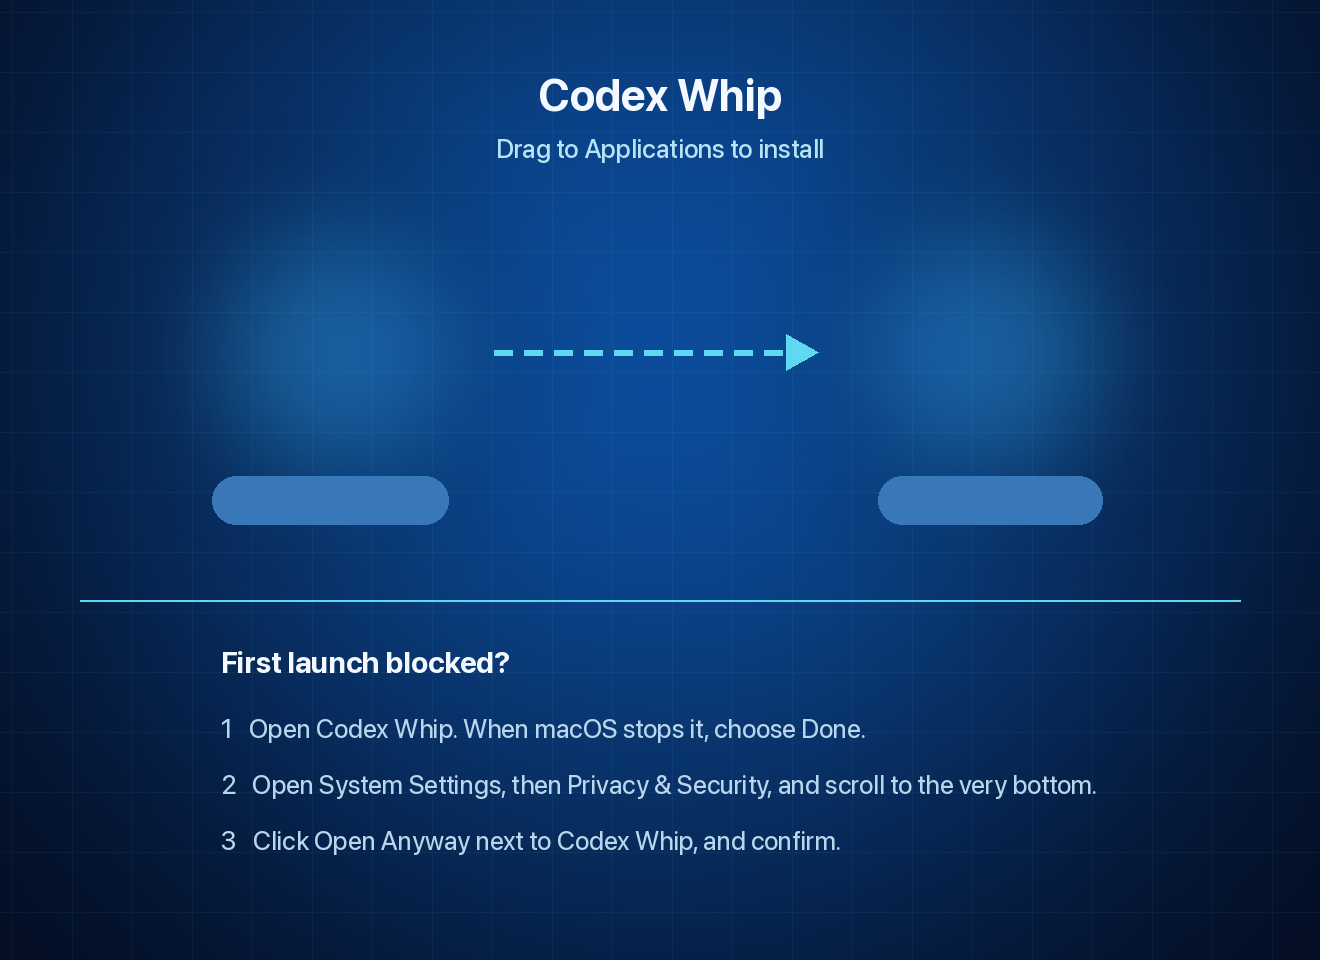
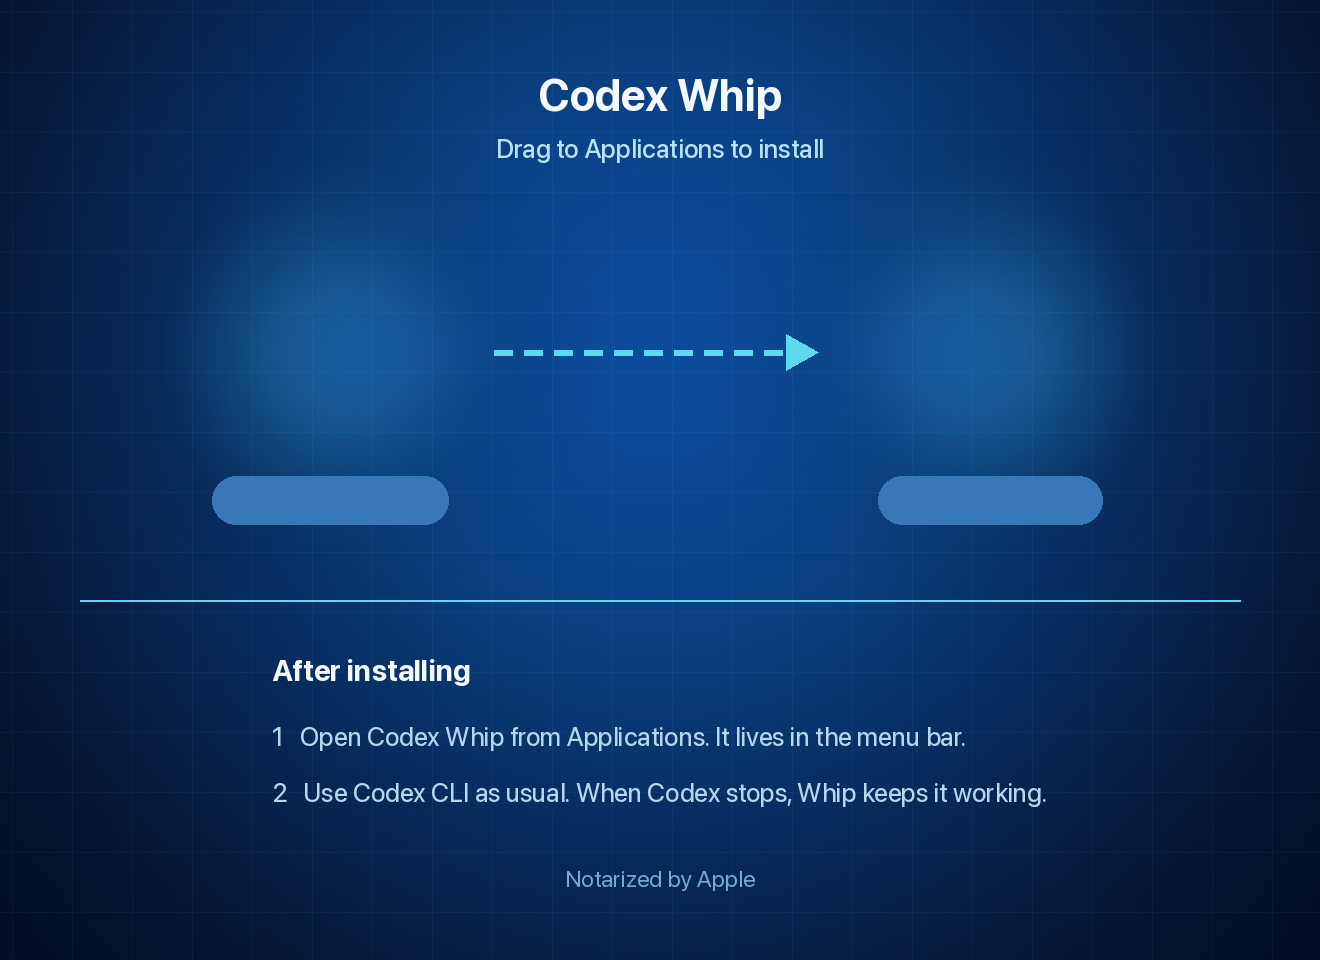
Sign releases with a Developer ID, notarize them with Apple and restore Start at Login after the signature change, as version 1.10.3

Changed region(s): [[0.1864, 0.8125, 0.8386, 0.9375], [0.1864, 0.75, 0.7455, 0.7812], [0.1553, 0.6562, 0.3727, 0.7188]]

diff --git a/native/App.swift b/native/App.swift
@@ -462,6 +462,7 @@ private final class AppDelegate: NSObject, NSApplicationDelegate, NSMenuDelegate
         let timer = Timer(timeInterval: 10, repeats: true) { [weak self] _ in self?.refreshDashboard() }
         RunLoop.main.add(timer, forMode: .common)
         self.timer = timer
+        if !isolated { restoreLogin() }
         let arguments = ProcessInfo.processInfo.arguments
         if arguments.contains("--enable-login") {
             if isolated {
@@ -846,9 +847,26 @@ private final class AppDelegate: NSObject, NSApplicationDelegate, NSMenuDelegate
             // Unregistering here would silently undo the choice instead.
             SMAppService.openSystemSettingsLoginItems()
         case .enabled:
+            UserDefaults.standard.set(false, forKey: loginChoiceKey)
             configureLogin(enabled: false, presentError: true)
         default:
+            UserDefaults.standard.set(true, forKey: loginChoiceKey)
             configureLogin(enabled: true, presentError: true)
+        }
+    }
+
+    private let loginChoiceKey = "StartAtLogin"
+
+    /// macOS ties a login item to the app's code signature, so a new signing identity
+    /// can drop the registration. The saved choice registers the item again once.
+    private func restoreLogin() {
+        switch SMAppService.mainApp.status {
+        case .enabled:
+            UserDefaults.standard.set(true, forKey: loginChoiceKey)
+        case .notRegistered where UserDefaults.standard.bool(forKey: loginChoiceKey):
+            configureLogin(enabled: true, presentError: false)
+        default:
+            break
         }
     }
 

diff --git a/scripts/build_app.py b/scripts/build_app.py
@@ -1,5 +1,9 @@
 #!/usr/bin/env python3
-"""Build the self-contained menu bar app and an ad-hoc signed DMG on macOS."""
+"""Build the self-contained menu bar app and its DMG on macOS.
+
+Builds are ad hoc signed unless --identity names a Developer ID Application
+certificate in the keychain. scripts/notarize.py then notarizes that DMG.
+"""
 
 import argparse
 import hashlib
@@ -21,10 +25,34 @@ import sparkle
 ROOT = Path(__file__).resolve().parents[1]
 NAME = "Codex Whip"
 EXECUTABLE = "CodexWhip"
+BUNDLE_ID = "com.turushan.codex-whip"
 
 
 def run(arguments, **kwargs):
     subprocess.run([str(value) for value in arguments], check=True, cwd=ROOT, **kwargs)
+
+
+def sign(app, identity):
+    """Sign nested code first and the app last, never with --deep.
+
+    A Developer ID signature adds the hardened runtime and a secure timestamp,
+    which notarization requires. PyInstaller already signed the libraries inside
+    the helper with the same identity; only its outer signature is renewed here.
+    """
+    options = ["--force", "--sign", identity]
+    if identity == "-":
+        options += ["--timestamp=none"]
+    else:
+        options += ["--timestamp", "--options", "runtime"]
+    framework = app / "Contents/Frameworks/Sparkle.framework"
+    # The XPC services serve sandboxed apps only; this app is not sandboxed.
+    shutil.rmtree(framework / "Versions/B/XPCServices")
+    (framework / "XPCServices").unlink()
+    for code in (framework / "Versions/B/Autoupdate", framework / "Versions/B/Updater.app", framework):
+        run(["codesign", *options, code])
+    run(["codesign", *options, "--identifier", f"{BUNDLE_ID}.helper", app / "Contents/Helpers/whip-helper"])
+    run(["codesign", *options, app])
+    run(["codesign", "--verify", "--deep", "--strict", app])
 
 
 def main():
@@ -32,6 +60,8 @@ def main():
     parser.add_argument("--skip-install", action="store_true", help="Use existing build dependencies")
     parser.add_argument("--skip-tests", action="store_true", help="Skip tests already run for this source")
     parser.add_argument("--reuse-helper", action="store_true", help="Reuse an unchanged local helper when rebuilding the native menu")
+    parser.add_argument("--identity", default="-",
+                        help='Signing identity, such as "Developer ID Application: Name (TEAMID)"; ad hoc by default')
     args = parser.parse_args()
     if sys.platform != "darwin":
         parser.error("Build this macOS app on a Mac")
@@ -68,7 +98,7 @@ def main():
              "--distpath", build / "helper", "--workpath", build / "pyinstaller",
              "--specpath", build / "spec", "--target-arch", architecture,
              "--add-data", str(ROOT / "assets/sounds/whip.wav") + os.pathsep + "assets/sounds",
-             "--codesign-identity", "-", ROOT / "codex_whip.py"])
+             "--codesign-identity", args.identity, ROOT / "codex_whip.py"])
     app = output / f"{NAME}.app"
     if app.exists():
         shutil.rmtree(app)
@@ -84,7 +114,7 @@ def main():
         "CFBundleDevelopmentRegion": "en",
         "CFBundleDisplayName": NAME,
         "CFBundleExecutable": EXECUTABLE,
-        "CFBundleIdentifier": "com.turushan.codex-whip",
+        "CFBundleIdentifier": BUNDLE_ID,
         "CFBundleInfoDictionaryVersion": "6.0",
         "CFBundleName": NAME,
         "CFBundlePackageType": "APPL",
@@ -133,8 +163,7 @@ def main():
     ], text=True).strip()
     if Path(license_path).is_file():
         shutil.copy2(license_path, contents / "Resources/ThirdPartyLicenses/Python-runtime.txt")
-    run(["codesign", "--force", "--deep", "--sign", "-", "--timestamp=none", app])
-    run(["codesign", "--verify", "--deep", "--strict", app])
+    sign(app, args.identity)
     disk = output / f"Codex-Whip-{architecture}.dmg"
     disk.unlink(missing_ok=True)
     # The installer window: background, icon positions and the volume icon (scripts/dmg_settings.py).
@@ -150,6 +179,9 @@ def main():
             if attempt == 2:
                 raise
             time.sleep(10)
+    if args.identity != "-":
+        run(["codesign", "--force", "--sign", args.identity, "--timestamp",
+             "--identifier", f"{BUNDLE_ID}.dmg", disk])
     digest = hashlib.sha256(disk.read_bytes()).hexdigest()
     (output / "SHA256SUMS.txt").write_text(f"{digest}  {disk.name}\n")
     print(f"\nBuilt {app}\nBuilt {disk}\nSHA256 {digest}")

diff --git a/scripts/notarize.py b/scripts/notarize.py
@@ -1,0 +1,81 @@
+#!/usr/bin/env python3
+"""Notarize a Developer ID signed DMG with Apple, staple the ticket and check Gatekeeper.
+
+Authenticates with an App Store Connect Team API key: either --keychain-profile
+(saved once with `xcrun notarytool store-credentials`) or NOTARY_KEY_PATH,
+NOTARY_KEY_ID and NOTARY_ISSUER in the environment, as on CI.
+"""
+
+import argparse
+import hashlib
+import json
+import os
+from pathlib import Path
+import subprocess
+import sys
+import tempfile
+
+
+def notarytool(arguments, credentials):
+    result = subprocess.run(["xcrun", "notarytool", *arguments, *credentials, "--output-format", "json"],
+                            stdout=subprocess.PIPE, text=True, check=False)
+    try:
+        return result.returncode, json.loads(result.stdout or "{}")
+    except json.JSONDecodeError:
+        return result.returncode, {"message": result.stdout}
+
+
+def main():
+    parser = argparse.ArgumentParser(description=__doc__)
+    parser.add_argument("archive", type=Path, help="Signed DMG from scripts/build_app.py --identity")
+    parser.add_argument("--keychain-profile", help="Saved notarytool credentials for local use")
+    args = parser.parse_args()
+    archive = args.archive.resolve()
+    if args.keychain_profile:
+        credentials = ["--keychain-profile", args.keychain_profile]
+    else:
+        try:
+            credentials = ["--key", os.environ["NOTARY_KEY_PATH"], "--key-id", os.environ["NOTARY_KEY_ID"],
+                           "--issuer", os.environ["NOTARY_ISSUER"]]
+        except KeyError as missing:
+            parser.error(f"Set {missing.args[0]} or pass --keychain-profile")
+    subprocess.run(["codesign", "--verify", "--strict", archive], check=True)
+    code, submission = notarytool(["submit", archive, "--wait", "--timeout", "30m"], credentials)
+    print(json.dumps(submission, indent=2))
+    identifier = submission.get("id")
+    if identifier:
+        # The log lists every issue, including warnings on an accepted submission.
+        log = archive.with_name(archive.stem + "-notary-log.json")
+        subprocess.run(["xcrun", "notarytool", "log", identifier, *credentials, log], check=False)
+        if log.is_file():
+            issues = json.loads(log.read_text()).get("issues") or []
+            for issue in issues:
+                print(f"{issue.get('severity')}: {issue.get('path')}: {issue.get('message')}")
+    if code or submission.get("status") != "Accepted":
+        sys.exit(f"Notarization failed: {submission.get('status') or submission.get('message')}")
+    subprocess.run(["xcrun", "stapler", "staple", archive], check=True)
+    subprocess.run(["xcrun", "stapler", "validate", archive], check=True)
+    subprocess.run(["spctl", "--assess", "--type", "open", "--context", "context:primary-signature",
+                    "--verbose=2", archive], check=True)
+    # Check the app inside the stapled image as a downloaded copy would be checked.
+    with tempfile.TemporaryDirectory() as mount:
+        subprocess.run(["hdiutil", "attach", "-nobrowse", "-readonly", "-mountpoint", mount, archive],
+                       check=True, stdout=subprocess.DEVNULL)
+        try:
+            app = Path(mount) / "Codex Whip.app"
+            # The ticket is stapled to the image, not to the app inside it, so
+            # `syspolicy_check distribution` would report the app's ticket as missing.
+            subprocess.run(["spctl", "--assess", "--type", "execute", "--verbose=2", app], check=True)
+        finally:
+            subprocess.run(["hdiutil", "detach", mount], check=True, stdout=subprocess.DEVNULL)
+    # Stapling changes the image, so the checksum is written again.
+    checksums = archive.parent / "SHA256SUMS.txt"
+    checksums.write_text("".join(
+        f"{hashlib.sha256(item.read_bytes()).hexdigest()}  {item.name}\n"
+        for item in sorted(archive.parent.glob("Codex-Whip-*.dmg"))
+    ))
+    print(f"\nNotarized and stapled {archive}")
+
+
+if __name__ == "__main__":
+    main()

diff --git a/scripts/make_dmg_background.py b/scripts/make_dmg_background.py
@@ -2,7 +2,7 @@
 """Draw the installer window's background in the film's blueprint look, at 1x and 2x.
 
 The disk image opens to a 660 by 480 point window: the app on the left, Applications on the right
-and an arrow between them, then the three first-launch steps people take themselves. Finder draws icon labels white in dark
+and an arrow between them, then what to do after installing. Finder draws icon labels white in dark
 mode and black in light mode, so each label sits on a chip whose luminance gives both at least 4.5:1.
 The positions here must match ICONS in scripts/build_app.py. Needs Pillow and the macOS font SF.
 """
@@ -81,16 +81,16 @@ def draw(scale):
     chip = chip_color()
     for cx, width in ((APP, 118), (APPLICATIONS, 112)):
         d.rounded_rectangle([s(cx - width / 2), s(ICON_Y + LABEL - 12), s(cx + width / 2), s(ICON_Y + LABEL + 12)], s(12), fill=chip)
-    # A hairline between installing and the first launch.
+    # A hairline between installing and what comes next.
     d.line([(s(40), s(300)), (s(WIDTH - 40), s(300))], fill=(*CYAN, 60), width=max(1, s(1)))
     heading, step = font(s(15), 700), font(s(13), 450)
-    lines = ["1   Open Codex Whip. When macOS stops it, choose Done.",
-             "2   Open System Settings, then Privacy & Security, and scroll to the very bottom.",
-             "3   Click Open Anyway next to Codex Whip, and confirm."]
+    lines = ["1   Open Codex Whip from Applications. It lives in the menu bar.",
+             "2   Use Codex CLI as usual. When Codex stops, Whip keeps it working."]
     x = (WIDTH - max(d.textlength(line, font=step) for line in lines) / scale) / 2
-    d.text((s(x), s(322)), "First launch blocked?", font=heading, fill=(244, 249, 255))
+    d.text((s(x), s(326)), "After installing", font=heading, fill=(244, 249, 255))
     for index, line in enumerate(lines):
-        d.text((s(x), s(356 + index * 28)), line, font=step, fill=(184, 214, 236))
+        d.text((s(x), s(360 + index * 28)), line, font=step, fill=(184, 214, 236))
+    centered("Notarized by Apple", 432, small, (120, 170, 205))
     return card.convert("RGB")
 
 

diff --git a/scripts/sparkle.py b/scripts/sparkle.py
@@ -16,6 +16,16 @@ REPOSITORY = "https://github.com/turushan/codex-whip"
 FEED_ROOT = "https://raw.githubusercontent.com/turushan/codex-whip/main/updates"
 
 
+REQUIRED = (
+    "Sparkle.framework/Versions/B/Sparkle",
+    "Sparkle.framework/Versions/B/Autoupdate",
+    "Sparkle.framework/Versions/B/Updater.app/Contents/MacOS/Updater",
+    "bin/generate_appcast",
+    "bin/sign_update",
+    "bin/generate_keys",
+)
+
+
 def distribution(root):
     cache = Path(root) / "build/sparkle"
     cache.mkdir(parents=True, exist_ok=True)
@@ -41,7 +51,9 @@ def _distribution(cache):
     # while another release command runs can invalidate its mapped code pages.
     extracted = cache / f"{VERSION}-{SHA256[:12]}"
     marker = extracted / ".archive-sha256"
-    if marker.exists() and marker.read_text() == SHA256:
+    # A cache with a missing part, such as a deleted Updater.app, is extracted again.
+    complete = all((extracted / part).exists() for part in REQUIRED)
+    if marker.exists() and marker.read_text() == SHA256 and complete:
         return extracted
     if extracted.exists():
         shutil.rmtree(extracted)

diff --git a/scripts/prepare_release.py b/scripts/prepare_release.py
@@ -25,6 +25,10 @@ def main():
     if not match or not archive.is_file():
         parser.error("Provide an existing Codex-Whip-arm64.dmg or Codex-Whip-x86_64.dmg")
     architecture = match[1]
+    # Releases ship notarized; the Sparkle signature must cover the stapled image.
+    if subprocess.run(["xcrun", "stapler", "validate", archive], stdout=subprocess.DEVNULL,
+                      stderr=subprocess.DEVNULL).returncode:
+        parser.error("The DMG carries no notarization ticket; build it with the Signed release build workflow")
     version = re.search(r'^VERSION = "([^"]+)"', (ROOT / "codex_whip.py").read_text(), re.M)[1]
     distribution = sparkle.distribution(ROOT)
     public_key = subprocess.check_output([

diff --git a/codex_whip.py b/codex_whip.py
@@ -32,7 +32,7 @@ from settings import (DEFAULT_MESSAGE, DEFAULT_SETTINGS, ScanScheduler, Settings
 from whip_sound import RetrySound
 
 
-VERSION = "1.10.2"
+VERSION = "1.10.3"
 LABEL = "com.turushan.codex-whip"
 INTERVAL = DEFAULT_SETTINGS["retry_seconds"]
 SCAN_INTERVAL = DEFAULT_SETTINGS["scan_seconds"]

diff --git a/docs/RELEASING.md b/docs/RELEASING.md
@@ -2,9 +2,17 @@
 
 Builds need no private update key. Publishing updates requires the release Ed25519 key in the
 maintainer's login Keychain, under account `com.turushan.codex-whip` and the Sparkle update-key item.
-Its public key is committed in `scripts/sparkle.py`. Keep a secure backup of this Keychain key;
-an ad hoc signed app cannot recover a lost update key through Apple's Developer ID key rotation.
-Never commit or upload the private key.
+Its public key is committed in `scripts/sparkle.py`. Keep a secure backup of this Keychain key and
+never commit or upload it. Apps signed before 1.10.3 were ad hoc signed and cannot recover a lost
+update key through Apple's Developer ID key rotation.
+
+Release DMGs are signed with a Developer ID Application certificate, notarized by Apple and
+stapled. The **Signed release build** workflow (`.github/workflows/release.yml`) does this on
+GitHub's macOS runners. Its secrets live in the `release` environment, which only `main` can use:
+`MACOS_CERTIFICATE` (the base64 `.p12`), `MACOS_CERTIFICATE_PASSWORD`, and an App Store Connect
+Team API key with the Developer role as `NOTARY_KEY` (the base64 `.p8`), `NOTARY_KEY_ID` and
+`NOTARY_ISSUER`. Local builds stay ad hoc unless `scripts/build_app.py --identity` names a
+certificate in the keychain.
 
 Release downloads and update feeds are public. Verify final feed and asset URLs without GitHub
 authentication, matching how installed apps access updates.
@@ -15,7 +23,14 @@ authentication, matching how installed apps access updates.
    python3 scripts/build_app.py
    ```
 
-2. Commit and push the source. Verify the clean Apple silicon and Intel GitHub builds.
+2. Commit and push the source. Verify the clean Apple silicon and Intel GitHub builds, then run
+   the **Signed release build** workflow and download both notarized DMGs:
+
+   ```sh
+   gh workflow run release.yml
+   gh run download <run-id> -n codex-whip-signed-macos-15 -n codex-whip-signed-macos-15-intel -D build/signed
+   ```
+
    Test the built app, including pause/resume/quit and an isolated update check.
    A maintainer with the release Keychain key can run the signed local upgrade and tamper test:
 
@@ -33,13 +48,15 @@ authentication, matching how installed apps access updates.
 3. Prepare the update feed using the release Keychain key. Plain text notes are optional:
 
    ```sh
-   python3 scripts/prepare_release.py dist/Codex-Whip-arm64.dmg --notes build/release-notes.txt
+   python3 scripts/prepare_release.py build/signed/codex-whip-signed-macos-15/Codex-Whip-arm64.dmg --notes build/release-notes.txt
    ```
 
    The script verifies the signing key, signs the DMG and feed with Sparkle's pinned tools,
    checks the feed signature and archive version, writes `updates/appcast-arm64.xml`, and
    refreshes `dist/SHA256SUMS.txt`. It never exports the private key.
-   It must fail if the release key is missing or does not match the embedded public key.
+   It must fail if the release key is missing or does not match the embedded public key, or if
+   the DMG carries no stapled notarization ticket. Stapling changes the DMG, so the Sparkle
+   signature is always made after notarization.
 
 4. Create the matching GitHub release with the DMG and `SHA256SUMS.txt`. Use a tag matching
    `VERSION`, such as `v1.6.0`, and target the tested source commit. Verify the asset

diff --git a/docs/INSTALL.md b/docs/INSTALL.md
@@ -32,18 +32,9 @@ from the beginning.
 
 ### First launch
 
-The downloadable app is ad hoc signed, without a Developer ID signature or Apple notarization.
-macOS may prevent its first launch because Apple cannot verify the developer or check the app.
-
-If you trust the downloaded copy and choose to proceed:
-
-1. Attempt to open **Codex Whip.app** once.
-2. Visit **System Settings → Privacy & Security** and select **Open Anyway** for this app.
-3. Confirm opening it when macOS asks again.
-
-This creates an exception for this app. Follow [Apple's guidance](https://support.apple.com/en-us/102445)
-if the option is unavailable or a different security alert appears. Organization-managed Macs
-can restrict these choices.
+Release downloads are signed with a Developer ID certificate and notarized by Apple, so the app
+opens like any other Mac app. Versions before 1.10.3 were ad hoc signed; they update to a notarized
+version through **Check for Updates…** without any extra step.
 
 ### Updating
 
@@ -95,7 +86,7 @@ DMG, and checksums in `dist/`. An Apple silicon build produces
 `dist/Codex-Whip-arm64.dmg`. Build on an Intel Mac to produce an Intel version.
 
 The generated app is ad hoc signed. Building locally does not provide a Developer ID signature
-or Apple notarization.
+or Apple notarization; the [release guide](RELEASING.md) describes the signed release build.
 Source builds use the official release update feeds and public key. They can receive official
 updates when a compatible release exists for their architecture. Disable **Automatic Updates**
 if you want to manage your build yourself. Building the app requires no private signing key.

diff --git a/README.md b/README.md
@@ -46,8 +46,6 @@ Defaults: **check every five minutes · retry capacity every three minutes**. Pa
 
 Choose **Watch Demo** in the menu to see capacity retries, quota renewals, and an early reset in action, with sound.
 
-First launch blocked? This community build has no Apple notarization. [How to open it](docs/INSTALL.md#first-launch).
-
 Downloads, source, and in-app updates are publicly available through GitHub.
 
 <details>
